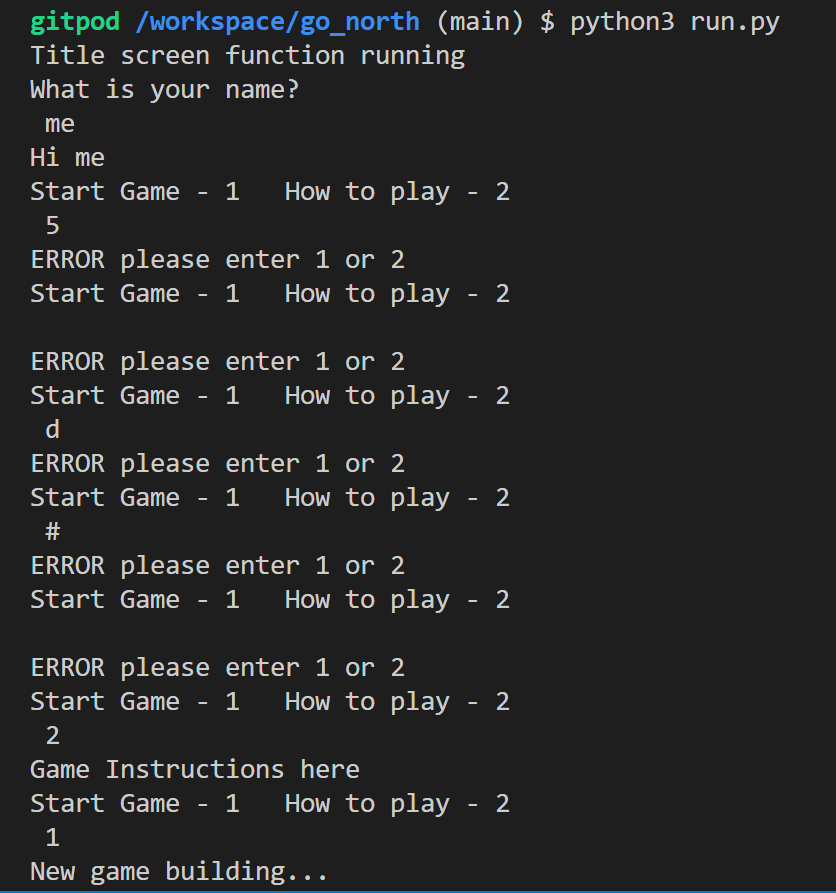
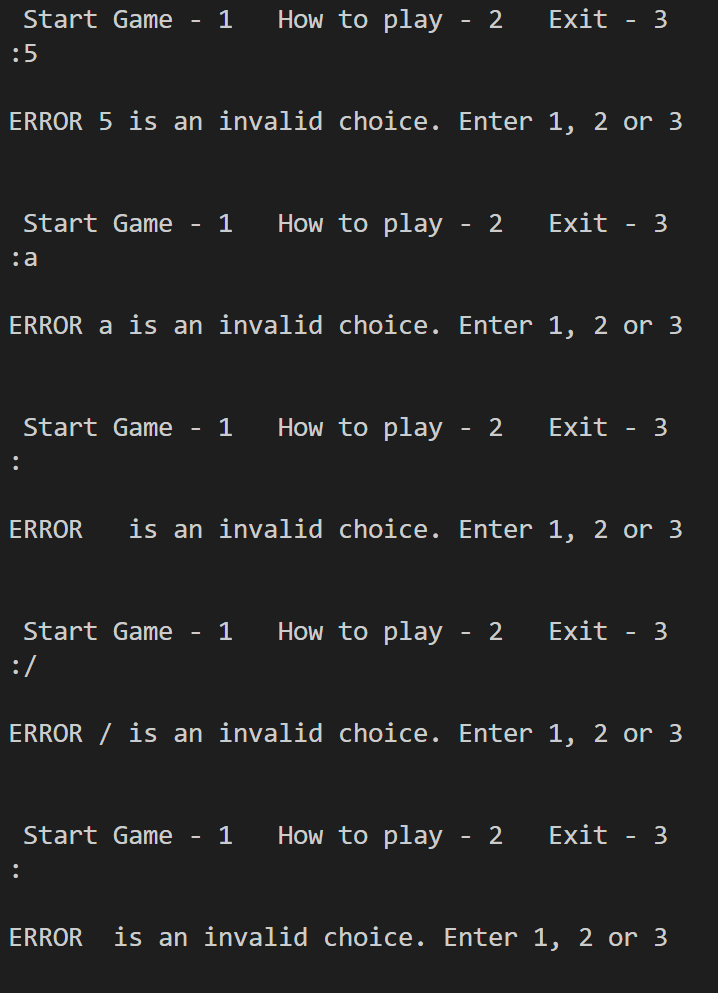
Doc>Update initial choice testing in test

diff --git a/TESTING.md b/TESTING.md
@@ -35,7 +35,7 @@ Exit back to the start point at any time. | The user is given the option to quit
 | Test | Expected Outcome | Outcome | Proof |
 | ---  | -----------------| ------- | ----- |
 |Username input| Only alpha characters accepted. | Tried entering : A number, a character, a space, just hitting enter - all returned an error message informing me this was an invalid entry and that the username must contain letters only. | ![Username verification testing](documentation/player_name_testing.png) |
-| Choosing between 'Start Game' and 'How to Play' | Only '1' or '2' is accepted | Tried entering : 5, a letter, a space, a character, and a blank entry. These all returned an error message stating to enter 1 or 2. Entering 2 displayed a test string in place of the full game rules, entering 1 started the game flow. | ![Initial choice testing](documentation/initial_choice_testing.png) |
+| Choosing between 'Start Game', 'How to Play' and 'Exit' | Only '1' or '2' is accepted | Tried entering : 5, a letter, a space, a character, and a blank entry. These all returned an error message stating to enter 1 or 2. Entering 2 displayed a test string in place of the full game rules, entering 1 started the game flow. Confirmed that 3 returns the user to the title screen. | ![Initial choice testing](documentation/initial_choice_testing.png) |
 | Choosing a b c or d as the game path option | Only A, a, B, b, C, c, D, d, X, or x should be accepted. | Tests showed that entering e, /, space, blank, or 5 returned an error message that this was an invalid entry and to select from the given options. | ![User path testing](documentation/game_path_choice_test.png) |
 
 

diff --git a/README.md b/README.md
@@ -83,9 +83,11 @@ An `if elif` statement handles input of 1 - calls `start_game()`
 
 ![Start Game](documentation/new_game.png)
 
-or 2 - calls `display_instructions()`
+2 - calls `display_instructions()`
 
 ![Rules](documentation/rules.png)
+
+3 - calls `main()` and returns the user to the title screen
 
 An `else` then handles any incorrect entries and loops the user back, displaying the choices again
 
